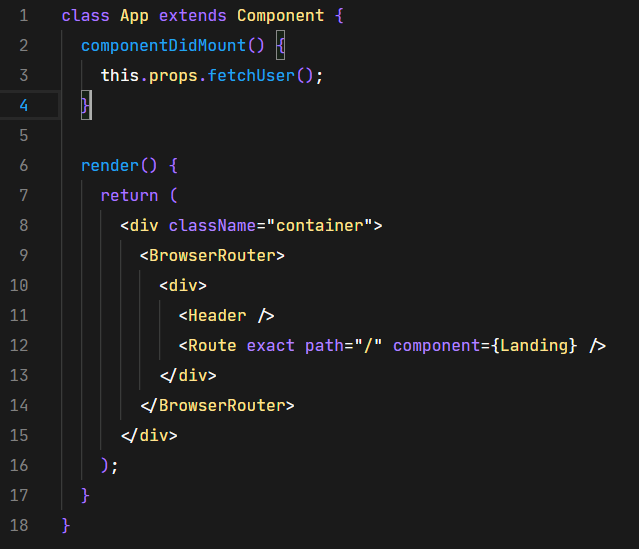
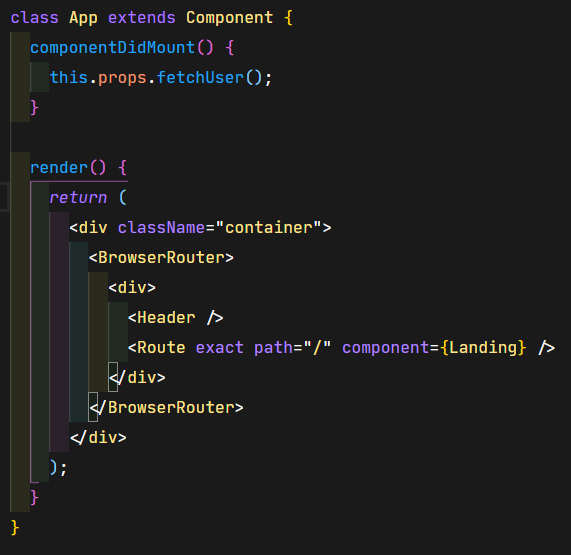
Atuaização README e foto.

diff --git a/README.md b/README.md
@@ -1,19 +1,19 @@
 # Nix:
-Na mitologia grega, Nix era uma deusa primordial, a personificação da noite. 
+Assim como a deusa primordial na mitologia grega, este tema personifica à noite.  
 
 ### Paleta.
 
 ![Paleta](https://i.postimg.cc/rpYC965X/paleta.png)
 
 ### Informação:
-Este tema até o momento suporta as seguintes linguagens: JavaScript, TypeScript, Elixir, Golang, Rust, Ruby, Python e PHP. Outras linguagens serão incluídas em futuras atualizações.
+Este tema até o momento suporta as seguintes linguagens: JavaScript, TypeScript, Elixir, Golang, Rust, Ruby, Python, Java e PHP. Outras linguagens serão incluídas em futuras atualizações.
 
-![Theme](https://i.postimg.cc/t4zHJkWV/theme.png)
+![Theme](https://i.postimg.cc/4NvNP0QQ/theme.png)
 
 ### Fonte.
 Não inclui fonte, por se tratar de uma preferência pessoal. A que uso (que é vista nas imagens acima) é a [JetBrains Mono](https://www.jetbrains.com/pt-pt/lp/mono). 
 
 ### Contribuições:
-Fico feliz que queira contribuir para este tema, porém, antes de realizá-las, [leia o guia de contribuição](CONTRIBUTING.md).
+Primeiramente, [leia o guia de contribuição](CONTRIBUTING.md). E fique à vontade para inserir as suas sugestões.
 ### Agradecimentos:
 Agradeço a [Sarah Drasner](https://twitter.com/sarah_edo), seu [tutorial](https://css-tricks.com/creating-a-vs-code-theme) foi de grande ajuda para a realização trabalho.
